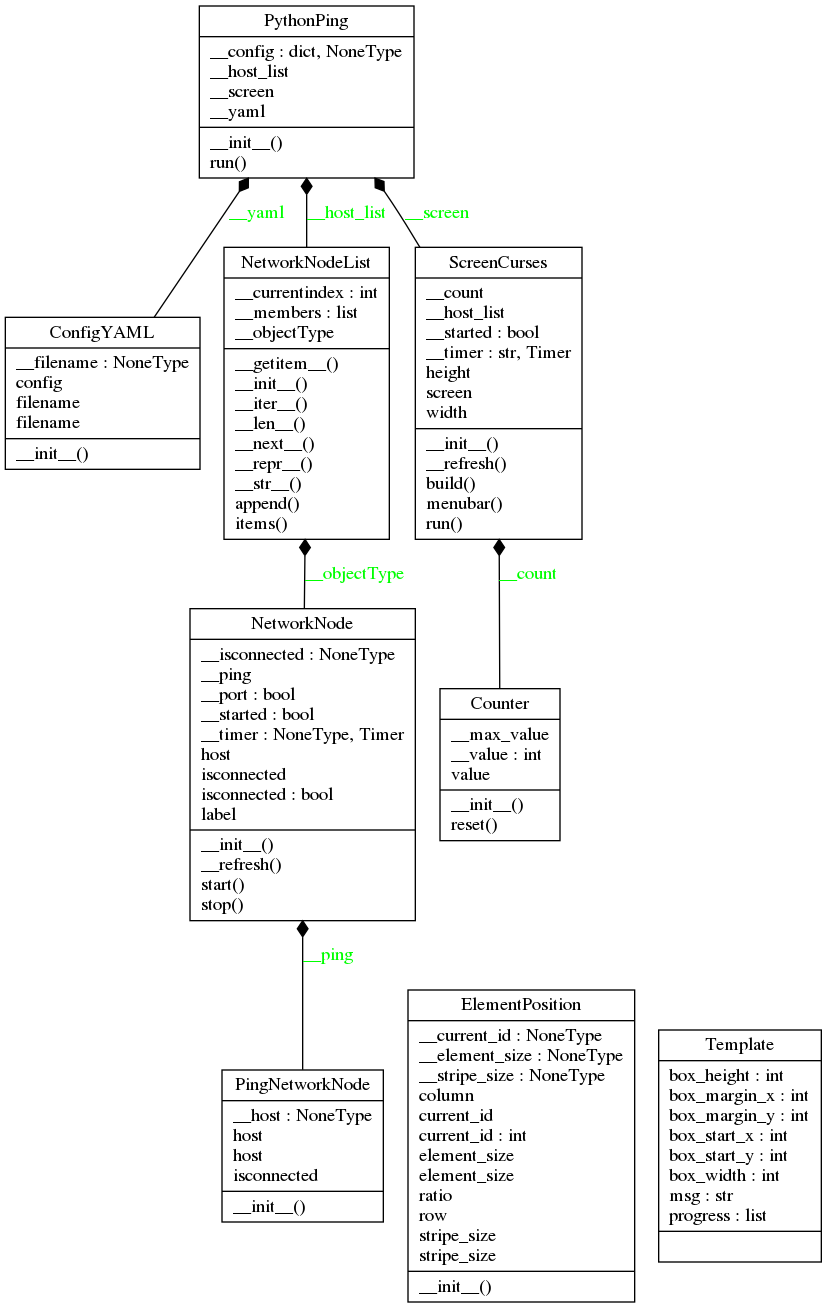
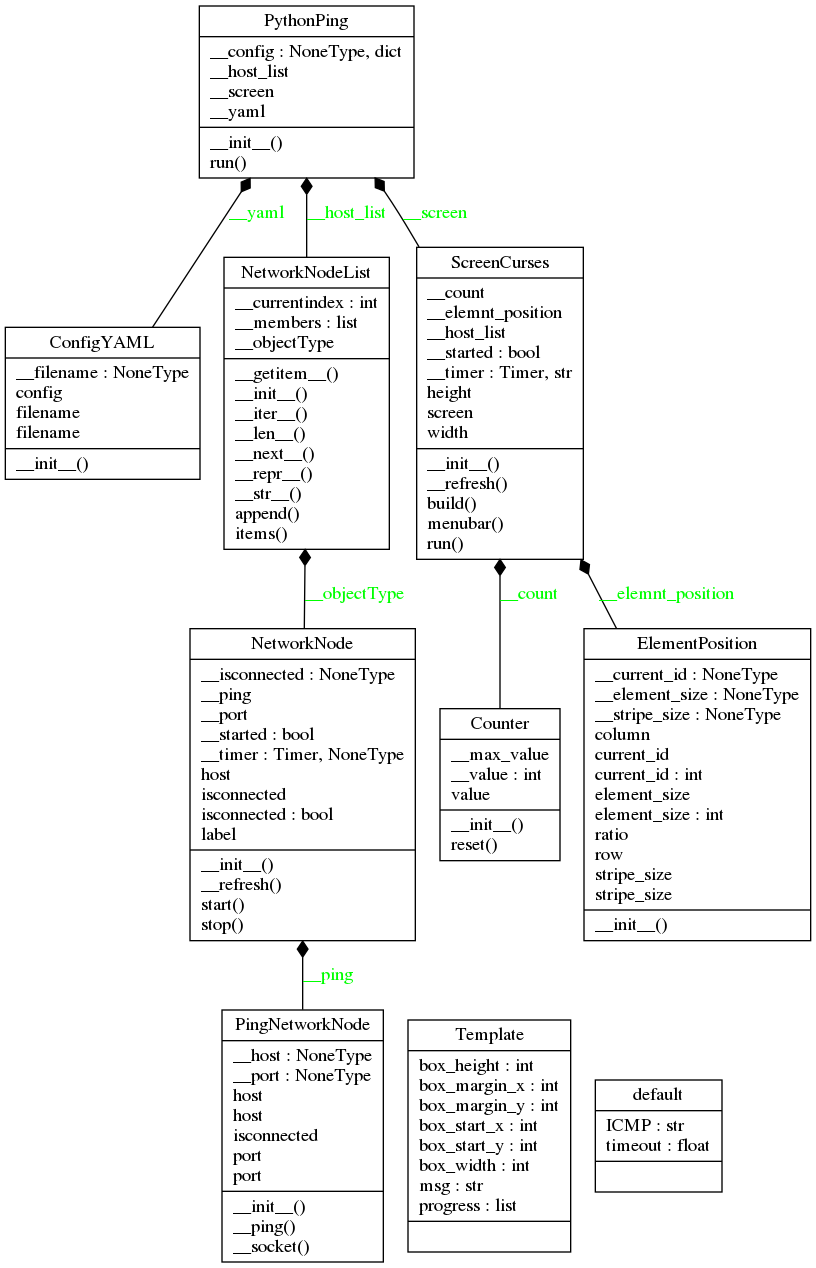
add port management and doc

Changed region(s): [[0.0, 0.0, 1.0, 1.0], [0.7047, 0.4306, 0.7353, 0.4614], [0.674, 0.3998, 0.7047, 0.4306]]

diff --git a/pytping/screen.py b/pytping/screen.py
@@ -36,6 +36,7 @@ class ScreenCurses(object):
         self.__started = True
         self.__host_list = host_list
         self.__count = Counter(3)
+        self.__elemnt_position = ElementPosition()
         self.screen = curses.initscr()
         self.screen.immedok(True)
         self.height, self.width = self.screen.getmaxyx()
@@ -53,7 +54,6 @@ class ScreenCurses(object):
 
     def menubar(self):
         box = self.screen.subwin(3, self.width, self.height - 3, 0)
-        # box.immedok(True)
         box.border()
         box.box()
         box.addstr(1, 2, Template.msg + " " +
@@ -69,21 +69,22 @@ class ScreenCurses(object):
             return
 
         self.height, self.width = self.screen.getmaxyx()
-        location = ElementPosition(
-            self.width - 2, Template.box_width + Template.box_margin_x)
+
+        self.__elemnt_position.stripe_size = self.width - 2
+        self.__elemnt_position.element_size = Template.box_width + Template.box_margin_x
         self.screen.border(0)
         self.menubar()
 
         i = 0
         for host in self.__host_list:
-            location.current_id = i
+            self.__elemnt_position.current_id = i
             try:
                 box = self.screen.subwin(Template.box_height,
                                          Template.box_width,
-                                         location.row *
+                                         self.__elemnt_position.row *
                                          (Template.box_height + Template.box_margin_y) +
                                          Template.box_margin_y+1,
-                                         location.column * (Template.box_width + Template.box_margin_x)+Template.box_margin_x)
+                                         self.__elemnt_position.column * (Template.box_width + Template.box_margin_x)+Template.box_margin_x)
             except Exception:
                 return
             box.box()

diff --git a/pytping/ping.py b/pytping/ping.py
@@ -8,15 +8,23 @@ print(myhost.isconnected)
 """
 
 import subprocess
+import socket
+
+
+class default:
+    timeout=0.5
+    ICMP="ICMP"
 
 
 class PingNetworkNode(object):
     """
     This class ping a network equipement
     """
-    def __init__(self, host):
+    def __init__(self, host, port):
         self.__host = None
+        self.__port = None
         self.host = host
+        self.port = port
 
     @property
     def host(self):
@@ -30,6 +38,17 @@ class PingNetworkNode(object):
         self.__host = host
 
     @property
+    def port(self):
+        """
+        Property
+        """
+        return self.__port
+
+    @port.setter
+    def port(self, port):
+        self.__port = port
+
+    @property
     def isconnected(self):
         """Test network connection
 
@@ -40,6 +59,21 @@ class PingNetworkNode(object):
             bool
 
         """
+
+        if type(self.__port) is type(str() and default.ICMP in self.__port):
+            return self.__ping()
+        else:
+            return self.__socket()
+
+    def __socket(self):
+        try:
+            socket.setdefaulttimeout(default.timeout);
+            socket.socket().connect((self.__host, self.__port))
+        except Exception:
+            return False
+        return True
+
+    def __ping(self):
         try:
             subprocess.run("ping -c 1 -w 1 " + self.__host,
                            shell=True,

diff --git a/pytping/__init__.py b/pytping/__init__.py
@@ -17,7 +17,15 @@ of the GNU General Public License (GPL), version 3.
 
 The package contents itself are in the `config_from_json` directory:
 * `__init__.py` Initialization file for the Python package.
-* `XXX`: The code of interest.
+* `__about__.py` Global parameters
+* `configyaml.py` Config file management
+* `counter.py` Simple counter to make a progress animation
+* `members.py` NetworkNode management
+* `netnode.py` NetworkNode def
+* `ping.py` check host/port
+* `position.py` Element position management
+* `pyping.py` main function
+* `screen.py` Screen management
 
 ## Setup:
 
@@ -34,7 +42,46 @@ This module has been tested and validated on Ubuntu.
 make test
 ```
 
+## Screenshot:
+
+![alt text](./pictures/screen.png)
+
+
 ## Use:
+
+Use the script provided in this package :
+```shell
+$ pyt-ping.py -h
+usage: pyt-ping.py [-h] [-v] -i INPUT
+
+Ping tool...
+
+optional arguments:
+  -h, --help            show this help message and exit
+  -v, --version         show program's version number and exit
+
+required arguments:
+  -i INPUT, --input INPUT
+                        Input file name
+
+Enjoy...
+```
+
+Configuration file should be write according to this example:
+```yaml
+Internet access:
+  host: www.google.fr
+  port: 80
+vCenter:
+  host: 192.168.1.12
+  port: ICMP
+ESX1:
+  host: 192.168.1.230
+  port: 23
+ESX2:
+  host: 192.168.1.240
+  port: ICMP
+```
 
 ## Todo:
 

diff --git a/pytping/position.py b/pytping/position.py
@@ -46,7 +46,7 @@ class ElementPosition(object):
       +--------------------------------------------+
 
     """
-    def __init__(self, stripe_size, element_size):
+    def __init__(self): #, stripe_size, element_size):
         """
         Init default value and test
         """
@@ -54,8 +54,8 @@ class ElementPosition(object):
         self.__element_size = None
         self.__current_id = None
         self.current_id = 0
-        self.stripe_size = stripe_size
-        self.element_size = element_size
+        #self.stripe_size = stripe_size
+        #self.element_size = element_size
 
     @property
     def stripe_size(self):

diff --git a/pytping/pyping.py b/pytping/pyping.py
@@ -23,7 +23,9 @@ class PythonPing(object):
         self.__config = self.__yaml.config
         self.__host_list = NetworkNodeList()
         for label in self.__config:
-            current_node = NetworkNode(label, self.__config[label]['host'])
+            current_node = NetworkNode(label,
+                                       self.__config[label]['host'],
+                                       self.__config[label]['port'])
             current_node.start()
             self.__host_list.append(current_node)
         self.__screen = ScreenCurses(self.__host_list)

diff --git a/pytping/netnode.py b/pytping/netnode.py
@@ -16,14 +16,14 @@ from pytping.ping import PingNetworkNode
 
 
 class NetworkNode(object):
-    def __init__(self, label, host, port=False):
+    def __init__(self, label, host, port):
         self.__timer = None
         self.__isconnected = None
         self.__started = False
         self.isconnected = False
         self.label = label
         self.host = host
-        self.__ping = PingNetworkNode(host)
+        self.__ping = PingNetworkNode(host, port)
         self.__port = port
 
     @property

diff --git a/pytping/members.py b/pytping/members.py
@@ -30,7 +30,7 @@ class NetworkNodeList(object):
     """
 
     def __init__(self):
-        self.__objectType = NetworkNode("", "")
+        self.__objectType = NetworkNode("", "", "")
         self.__members = []
         self.__currentindex = 0
 

diff --git a/README.md b/README.md
@@ -14,7 +14,15 @@ of the GNU General Public License (GPL), version 3.
 
 The package contents itself are in the `config_from_json` directory:
 * `__init__.py` Initialization file for the Python package.
-* `XXX`: The code of interest.
+* `__about__.py` Global parameters
+* `configyaml.py` Config file management
+* `counter.py` Simple counter to make a progress animation
+* `members.py` NetworkNode management
+* `netnode.py` NetworkNode def
+* `ping.py` check host/port
+* `position.py` Element position management
+* `pyping.py` main function
+* `screen.py` Screen management
 
 ## Setup:
 
@@ -31,7 +39,46 @@ This module has been tested and validated on Ubuntu.
 make test
 ```
 
+## Screenshot:
+
+![alt text](./pictures/screen.png)
+
+
 ## Use:
+
+Use the script provided in this package :
+```shell
+$ pyt-ping.py -h
+usage: pyt-ping.py [-h] [-v] -i INPUT
+
+Ping tool...
+
+optional arguments:
+  -h, --help            show this help message and exit
+  -v, --version         show program's version number and exit
+
+required arguments:
+  -i INPUT, --input INPUT
+                        Input file name
+
+Enjoy...
+```
+
+Configuration file should be write according to this example:
+```yaml
+Internet access:
+  host: www.google.fr
+  port: 80
+vCenter:
+  host: 192.168.1.12
+  port: ICMP
+ESX1:
+  host: 192.168.1.230
+  port: 23
+ESX2:
+  host: 192.168.1.240
+  port: ICMP
+```
 
 ## Todo:
 
@@ -102,10 +149,10 @@ zope==4.0b4
 [@Property: ElementPosition.ratio](#property-elementpositionratio)<br />
 [@Property: ElementPosition.row](#property-elementpositionrow)<br />
 [@Property: ElementPosition.stripe_size](#property-elementpositionstripe_size)<br />
-[ElementPosition.__init__(self, stripe_size, element_size)](#elementpositioninitself-stripe_size-element_size)<br />
+[ElementPosition.__init__(self)](#elementpositioninitself)<br />
 [NetworkNode()](#networknode)<br />
 [@Property: NetworkNode.isconnected](#property-networknodeisconnected)<br />
-[NetworkNode.__init__(self, label, host, port=False)](#networknodeinitself-label-host-portfalse)<br />
+[NetworkNode.__init__(self, label, host, port)](#networknodeinitself-label-host-port)<br />
 [NetworkNode.__refresh(self)](#networknode__refreshself)<br />
 [NetworkNode.start(self)](#networknodestartself)<br />
 [NetworkNode.stop(self)](#networknodestopself)<br />
@@ -122,7 +169,10 @@ zope==4.0b4
 [PingNetworkNode()](#pingnetworknode)<br />
 [@Property: PingNetworkNode.host](#property-pingnetworknodehost)<br />
 [@Property: PingNetworkNode.isconnected](#property-pingnetworknodeisconnected)<br />
-[PingNetworkNode.__init__(self, host)](#pingnetworknodeinitself-host)<br />
+[@Property: PingNetworkNode.port](#property-pingnetworknodeport)<br />
+[PingNetworkNode.__init__(self, host, port)](#pingnetworknodeinitself-host-port)<br />
+[PingNetworkNode.__ping(self)](#pingnetworknode__pingself)<br />
+[PingNetworkNode.__socket(self)](#pingnetworknode__socketself)<br />
 [PythonPing()](#pythonping)<br />
 [PythonPing.__init__(self, inputfile)](#pythonpinginitself-inputfile)<br />
 [PythonPing.run(self)](#pythonpingrunself)<br />
@@ -289,9 +339,9 @@ def ElementPosition.stripe_size(self, value):
 > <br />
 > @Property<br />
 > <br />
-##### ElementPosition.__init__(self, stripe_size, element_size)
+##### ElementPosition.__init__(self)
 ```python
-def ElementPosition.__init__(self, stripe_size, element_size):
+def ElementPosition.__init__(self):
 ```
 > <br />
 > Init default value and test<br />
@@ -314,9 +364,9 @@ def NetworkNode.isconnected(self, value):
 > <br />
 > @Property<br />
 > <br />
-##### NetworkNode.__init__(self, label, host, port=False)
+##### NetworkNode.__init__(self, label, host, port)
 ```python
-def NetworkNode.__init__(self, label, host, port=False):
+def NetworkNode.__init__(self, label, host, port):
 ```
 > <br />
 > Initialize self.  See help(type(self)) for accurate signature.<br />
@@ -440,12 +490,37 @@ def PingNetworkNode.isconnected(self):
 > <br />
 > @Property<br />
 > <br />
-##### PingNetworkNode.__init__(self, host)
+##### @Property: PingNetworkNode.port
 ```python
-def PingNetworkNode.__init__(self, host):
+@property
+def PingNetworkNode.port(self):
+@port.setter
+def PingNetworkNode.port(self, port):
+
+```
+> <br />
+> @Property<br />
+> <br />
+##### PingNetworkNode.__init__(self, host, port)
+```python
+def PingNetworkNode.__init__(self, host, port):
 ```
 > <br />
 > Initialize self.  See help(type(self)) for accurate signature.<br />
+> <br />
+##### PingNetworkNode.__ping(self)
+```python
+def PingNetworkNode.__ping(self):
+```
+> <br />
+> <b>- docstring empty -</b><br />
+> <br />
+##### PingNetworkNode.__socket(self)
+```python
+def PingNetworkNode.__socket(self):
+```
+> <br />
+> <b>- docstring empty -</b><br />
 > <br />
 #### PythonPing()
 ```python
